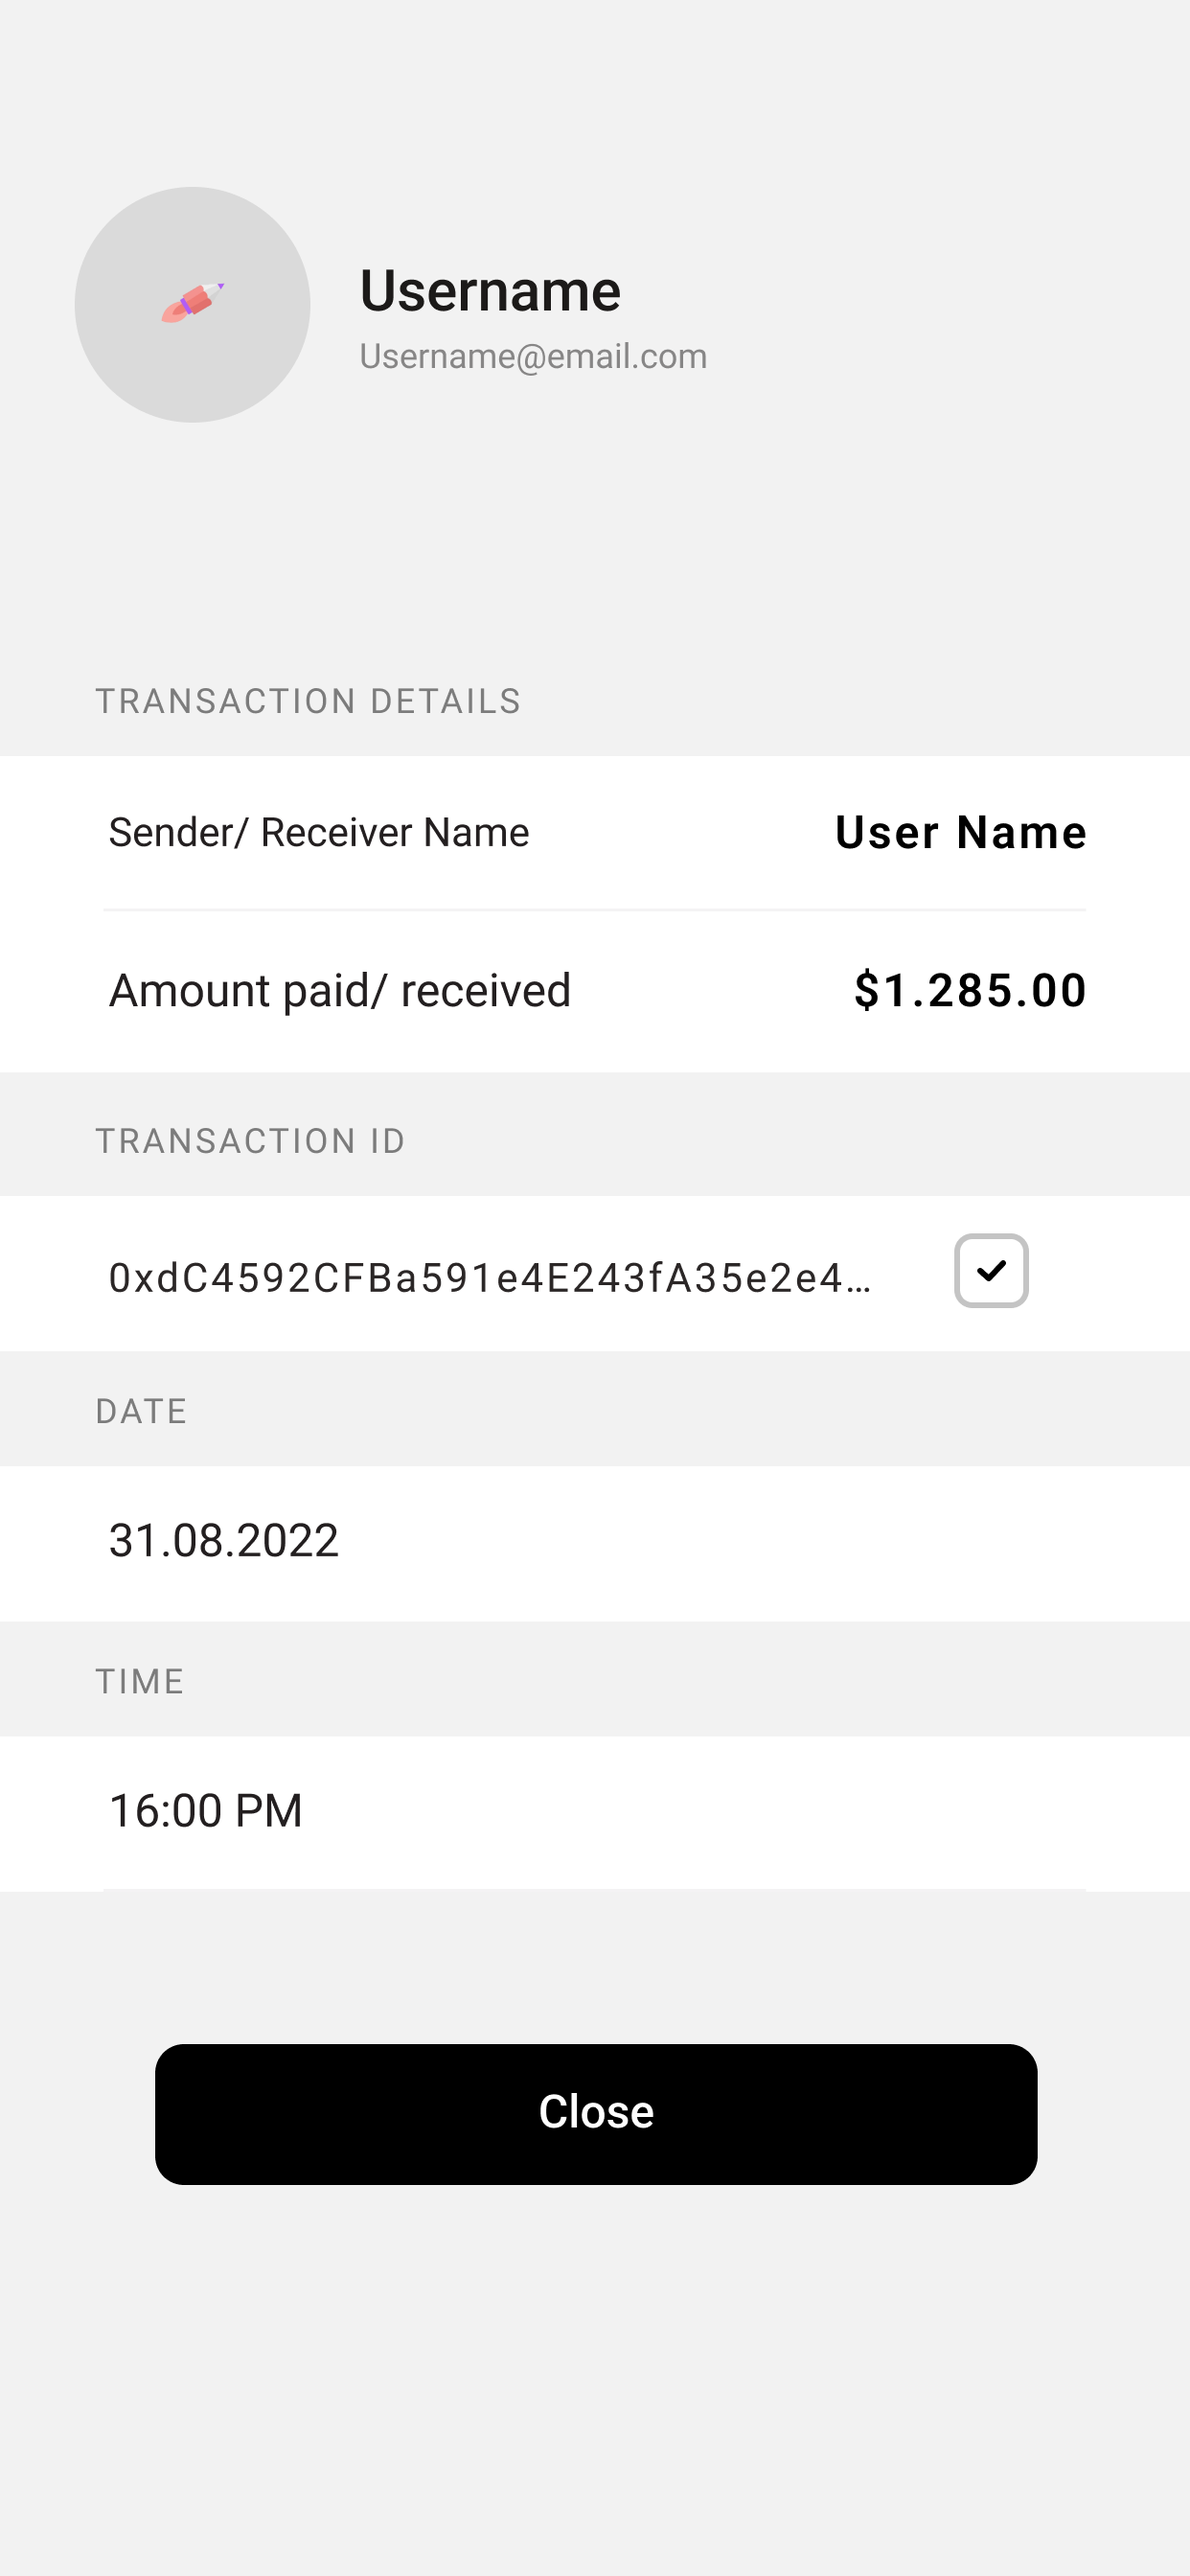
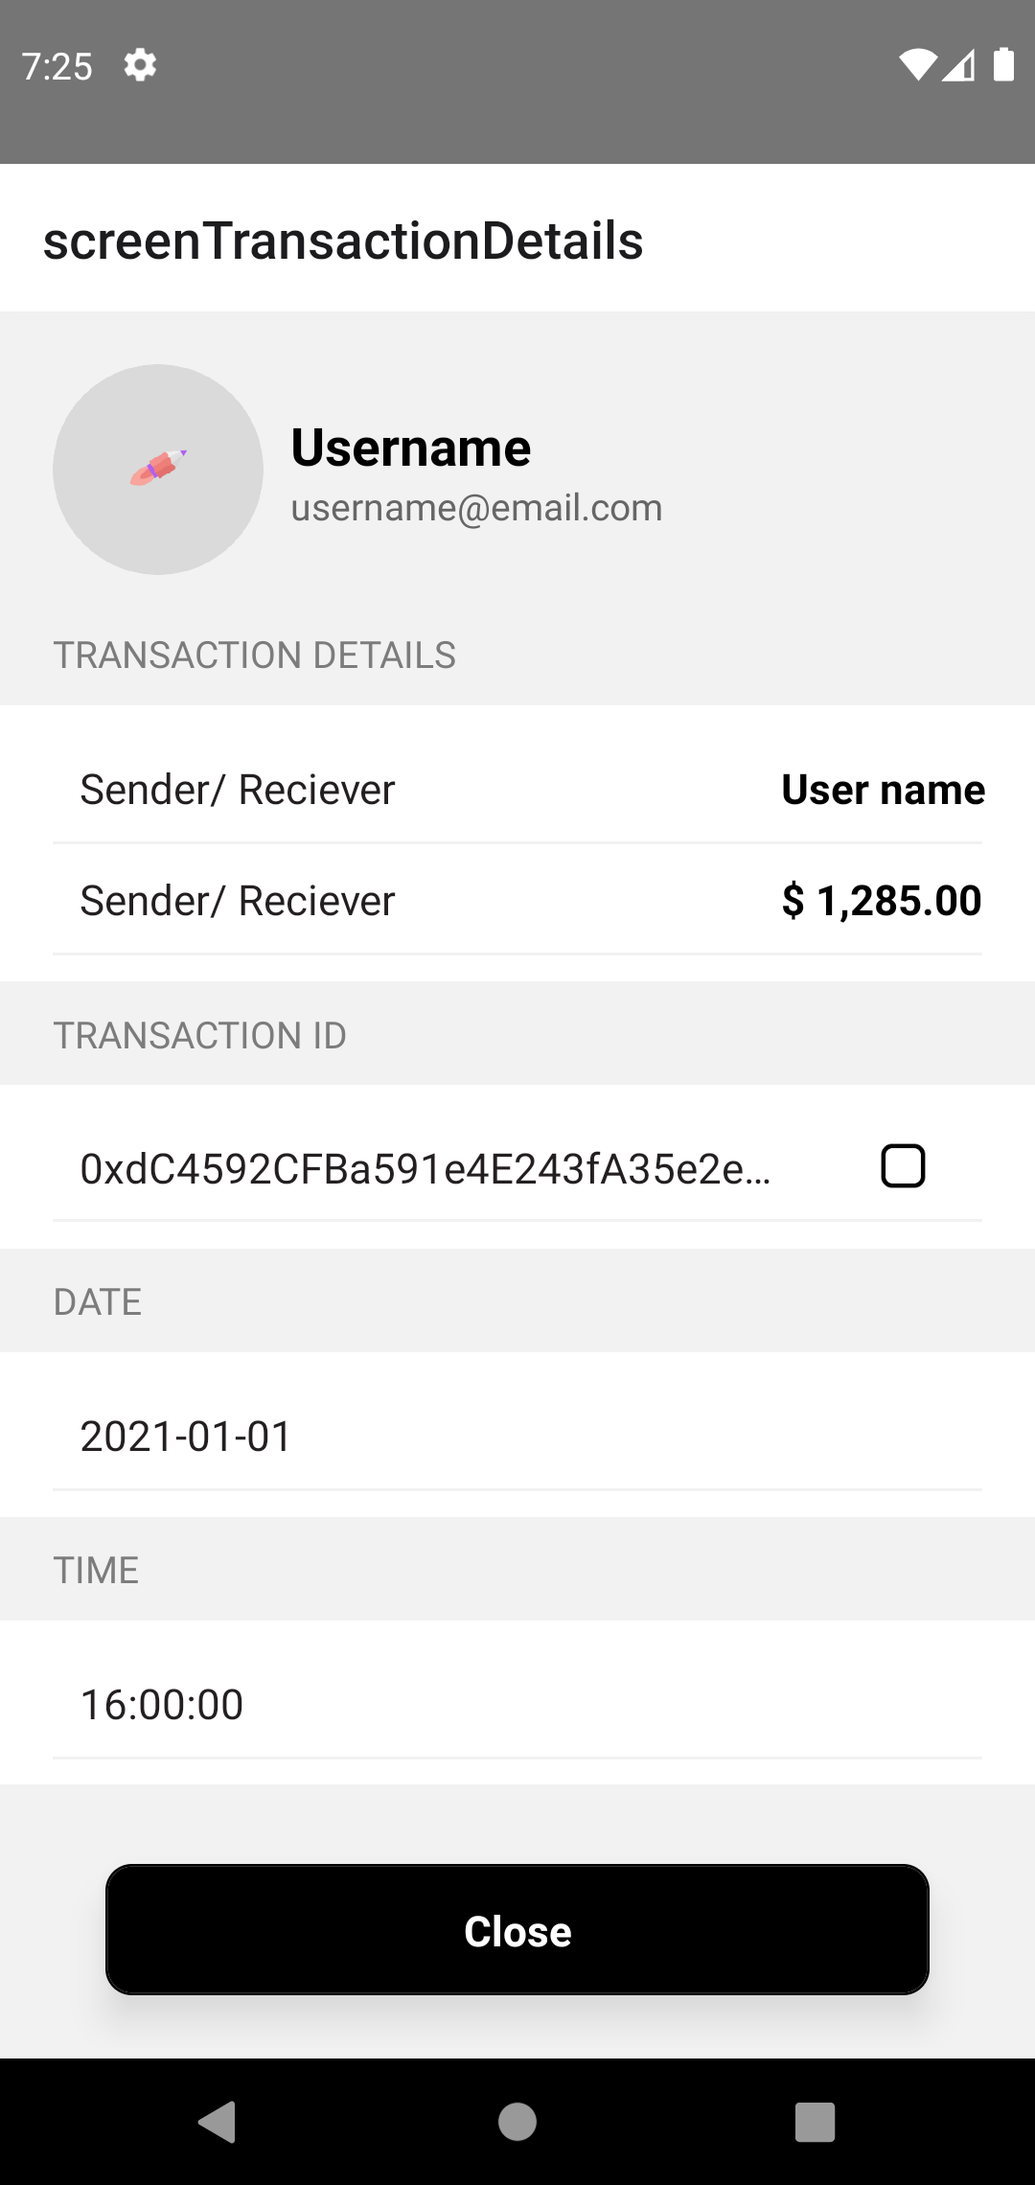
transaction details screen a dded

diff --git a/screens/screen-transaction-details/index.js b/screens/screen-transaction-details/index.js
@@ -1,25 +1,270 @@
-import React from "react";
+import React, { useState, useEffect } from "react";
 import {
   Text,
   View,
-  StyleSheet
+  StyleSheet,
+  Image,
+  Pressable,
+  ScrollView
 } from "react-native";
 
 const TransactionDetails = () => {
+  const [user, setUser] = useState([]);
+  const [transaction, setTransaction] = useState([]);
+  const [checked, setChecked] = useState(false);
+  useEffect(() => {
+    setUser({
+      name: "Username",
+      email: "username@email.com",
+      image: require("./assets/userImage.png")
+    });
+    setTransaction({
+      name: "User name",
+      amount: 1285,
+      transactionID: "0xdC4592CFBa591e4E243fA35e2e4eEeBd4e4eEeBd",
+      date: "2021-01-01",
+      currency: "USD",
+      time: "16:00:00"
+    });
+  }, []);
   return (
     <View style={styles.container}>
-      <Text style={styles.heading}>Transaction Details</Text>
+      <ScrollView showsVerticalScrollIndicator={false}>
+        <View style={styles.header}>
+          <Image source={user.image} style={styles.image} />
+          <View>
+            <Text style={styles.name}>{user.name}</Text>
+            <Text style={styles.email}>{user.email}</Text>
+          </View>
+        </View>
+        <Text style={styles.itemHeading}>Transaction Details</Text>
+        <View style={styles.itemContainer}>
+          <View style={styles.flexRow}>
+            <Text style={styles.subText}>Sender/ Reciever</Text>
+            <Text style={styles.mainText}>{transaction.name}</Text>
+          </View>
+          <View style={styles.flexRow}>
+            <Text style={styles.subText}>Sender/ Reciever</Text>
+            <Text style={styles.mainText}>
+              {format(transaction.amount, transaction.currency, 2)}
+            </Text>
+          </View>
+        </View>
+        <Text style={styles.itemHeading}>Transaction ID</Text>
+        <View style={styles.itemContainer}>
+          <View style={styles.flexRow}>
+            <Text style={styles.subText} numberOfLines={1}>
+              {transaction.transactionID}
+            </Text>
+            <Checkbox
+              value={checked}
+              setValue={setChecked}
+              style={styles.checkbox}
+            />
+          </View>
+        </View>
+        <Text style={styles.itemHeading}>Date</Text>
+        <View style={styles.itemContainer}>
+          <View style={styles.flexRow}>
+            <Text style={styles.subText} numberOfLines={1}>
+              {transaction.date}
+            </Text>
+          </View>
+        </View>
+        <Text style={styles.itemHeading}>Time</Text>
+        <View style={styles.itemContainer}>
+          <View style={styles.flexRow}>
+            <Text style={styles.subText} numberOfLines={1}>
+              {transaction.time}
+            </Text>
+          </View>
+        </View>
+        <Button buttonText="Close" style={styles.button} />
+      </ScrollView>
     </View>
   );
 };
 const styles = StyleSheet.create({
   container: {
     flex: 1,
-    backgroundColor: "#fff"
+    backgroundColor: "#f2f2f2"
   },
-  heading: {
-    fontSize: 20
+  header: {
+    flexDirection: "row",
+    alignItems: "center",
+    padding: 20
+  },
+  image: {
+    width: 80,
+    height: 80,
+    borderRadius: 40,
+    marginRight: 10
+  },
+  name: {
+    fontSize: 20,
+    fontWeight: "bold"
+  },
+  email: {
+    fontSize: 14,
+    color: "#666"
+  },
+  itemHeading: {
+    fontSize: 14,
+    color: "#7C7C7C",
+    marginLeft: 20,
+    textTransform: "uppercase"
+  },
+  itemContainer: {
+    backgroundColor: "#fff",
+    paddingHorizontal: 20,
+    paddingVertical: 10,
+    marginVertical: 10
+  },
+  flexRow: {
+    flexDirection: "row",
+    justifyContent: "space-between",
+    alignItems: "center",
+    borderBottomColor: "#f2f2f2",
+    borderBottomWidth: 1,
+    padding: 10
+  },
+  subText: {
+    fontSize: 16,
+    color: "#231F20",
+    width: "80%"
+  },
+  mainText: {
+    fontSize: 16,
+    color: "#000",
+    fontWeight: "bold"
+  },
+  checkbox: {
+    marginRight: 10
+  },
+  button: {
+    marginHorizontal: 40,
+    marginVertical: 20
   }
 });
 
 export default TransactionDetails;
+
+const format = (value, currency, precesion) => {
+  const parts = value && value.toFixed(precesion).toString().split(".");
+  if (parts) {
+    parts[0] = parts[0].replace(/\B(?=(\d{3})+(?!\d))/g, ",");
+    switch (currency) {
+      case "USD":
+        return "$ " + parts.join(".");
+      case "BTC":
+        return parts.join(".") + " BTC";
+      case "EUR":
+        return "€ " + parts.join(".");
+      case "GBP":
+        return "£ " + parts.join(".");
+      case "ETH":
+        return parts.join(".") + " ETH";
+      default:
+        return parts.join(".");
+    }
+  }
+};
+
+const Checkbox = props => {
+  return (
+    <Pressable
+      onPress={() => {
+        props.setValue(!props.value);
+      }}
+      style={[checkboxStyles.container, props.style]}>
+      <Image
+        source={
+          props.value
+            ? require("./assets/checkboxIconActive.png")
+            : require("./assets/checkboxIcon.png")
+        }
+        style={[
+          checkboxStyles.checkbox,
+          props.color && { tintColor: props.color },
+          props.activeColor && props.value && { tintColor: props.activeColor }
+        ]}
+      />
+    </Pressable>
+  );
+};
+
+const checkboxStyles = StyleSheet.create({
+  container: {
+    height: 20,
+    width: 20
+  },
+  checkbox: {
+    height: "100%",
+    width: "100%",
+    tintColor: "#000"
+  }
+});
+
+const Button = params => {
+  const backgroundColor = params.backgroundColor || "#000";
+  const textColor = params.textColor || "#fff";
+  const btnStyle = {
+    backgroundColor: backgroundColor,
+    borderColor: params.borderColor || backgroundColor,
+    borderWidth: 1
+  };
+  const btnText = {
+    color: textColor
+  };
+  return (
+    <View style={[buttonStyles.btnContainer, params.style]}>
+      <View style={!params.hideShadow ? buttonStyles.shadowContainer : null}>
+        <Pressable
+          style={[buttonStyles.btn, btnStyle]}
+          onPress={params.onPress}>
+          <Text style={[buttonStyles.btnText, btnText]}>
+            {params.buttonText}
+          </Text>
+          <View style={styles.childrenContainer}>{params.children}</View>
+        </Pressable>
+      </View>
+    </View>
+  );
+};
+
+const buttonStyles = StyleSheet.create({
+  btnContainer: {
+    justifyContent: "center"
+  },
+  shadowContainer: {
+    shadowColor: "rgba(0, 0, 0, 0.5)",
+    shadowOffset: {
+      width: 0,
+      height: 5
+    },
+    shadowOpacity: 0.5,
+    shadowRadius: 10,
+    elevation: 10,
+    backgroundColor: "#fff",
+    borderRadius: 10
+  },
+  btn: {
+    height: 50,
+    padding: 10,
+    paddingHorizontal: 25,
+    borderRadius: 10,
+    justifyContent: "center",
+    alignItems: "center",
+
+    flexDirection: "row"
+  },
+  btnText: {
+    color: "#fff",
+    fontSize: 16,
+    fontWeight: "bold"
+  },
+  childrenContainer: {
+    justifyContent: "center",
+    alignItems: "center"
+  }
+});

diff --git a/modules/index.js b/modules/index.js
@@ -2,7 +2,7 @@ import mods from "./*/index.js";
 import { getModules } from "./modules.js";
 
 export const modules = getModules(mods);
-export const initialRoute = "screenSuccess";
+export const initialRoute = "screenTransactionDetails";
 // export const initialRoute = modules[0].value.title;
 export const slices = modules
   .filter(mod => mod.value.slice)
